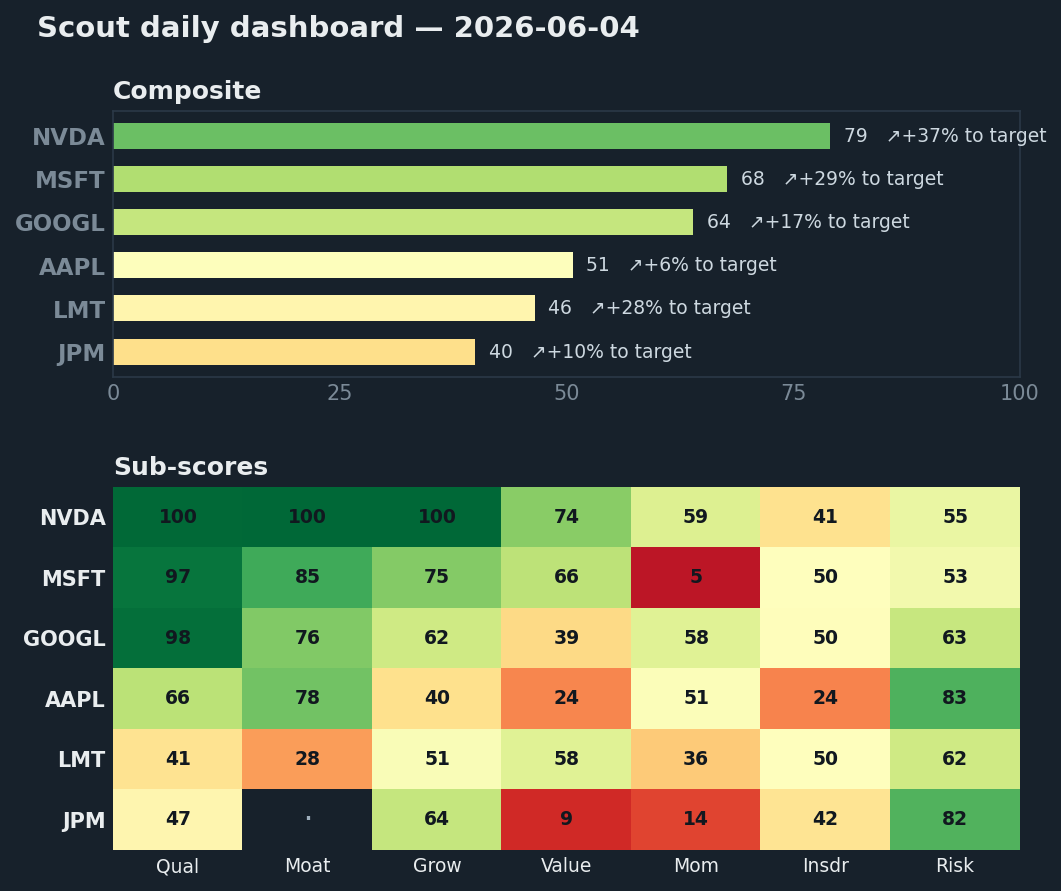
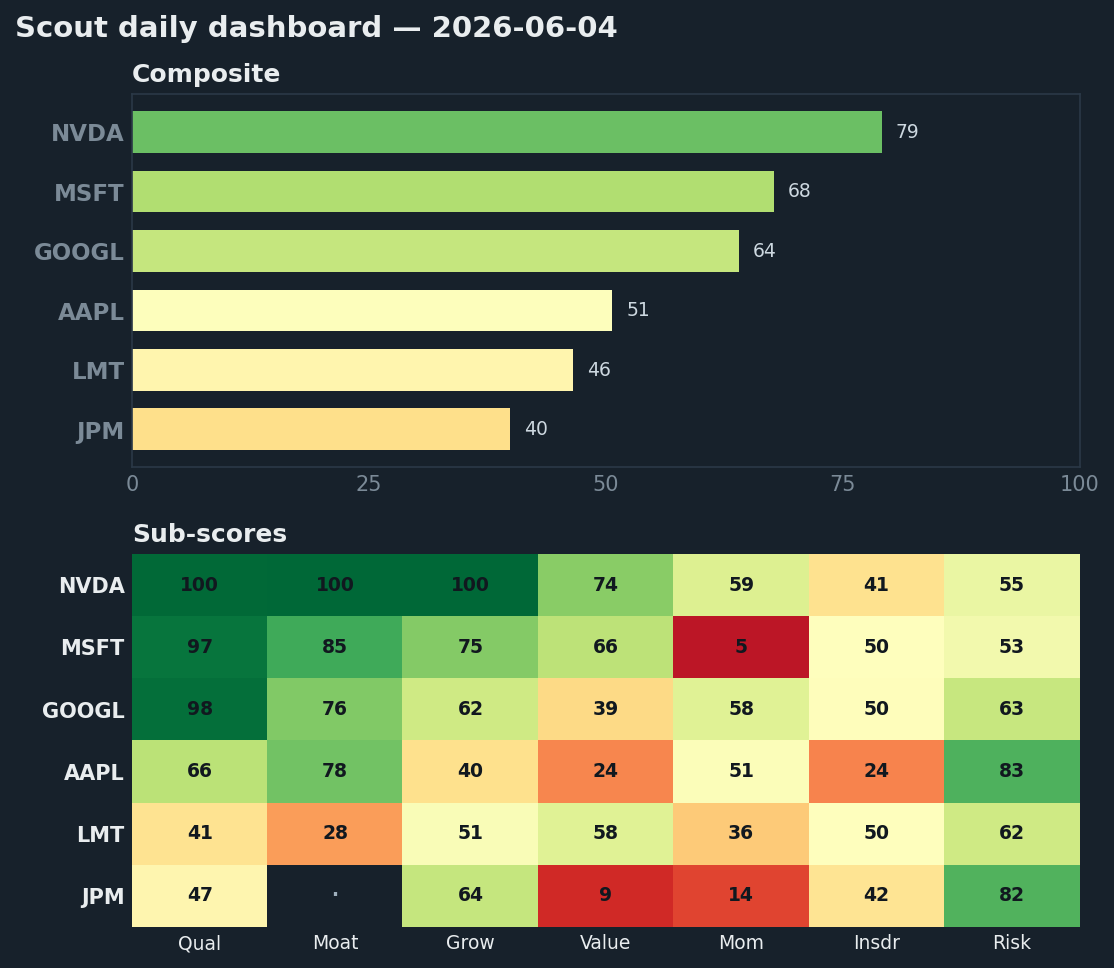
wip(scout-notify): dashboard scales to any N, drop 'to target' annotation
- dashboard() takes (rows, session, out); height = CHROME + 2*ROW_H*n so row
  density is constant from N=1 to N=24+
- inch-based gridspec margins + hspace=1.4/n (not tight_layout) so the title and
  panel headings never collide at low N; removes tight_layout warnings
- N=0 renders an honest 'no candidates' card instead of crashing
- composite bars now show the score only (analyst 'to target' upside removed)
- _scaling_demo() emits scale_n{00,01,03,12,24}.png as proof

diff --git a/scratch/mockups/render.py b/scratch/mockups/render.py
@@ -97,48 +97,82 @@ def radar():
     plt.close(fig)
 
 # ---------- Mockup C: composite dashboard ----------
-def dashboard():
-    n = len(cards)
-    fig = plt.figure(figsize=(7.8, 6.4), dpi=150)
+def dashboard(rows=None, session=SESSION, out="mockup_c_dashboard.png"):
+    """Render the daily dashboard for ANY number of rows.
+
+    Height scales with N so rows never cram; everything else (7 sub-score columns,
+    fonts, margins) is fixed. Callers pass a list of ScoreCard dicts sorted however
+    they like. Empty input renders a 'no candidates' card rather than crashing.
+    """
+    rows = cards if rows is None else rows
+    n = len(rows)
+    if n == 0:  # honest empty-report card instead of a zero-height crash
+        fig = plt.figure(figsize=(7.8, 2.0), dpi=150); fig.patch.set_facecolor(BG)
+        fig.text(0.5, 0.5, f"No candidates passed screening — {session}",
+                 color=FG, fontsize=13, ha="center", va="center")
+        fig.savefig(HERE / out, facecolor=BG, bbox_inches="tight"); plt.close(fig)
+        return out
+
+    # Per-row height (in inches) is constant, so 3 names and 30 names both read the
+    # same density. Chrome (titles, axis, padding) is fixed inch overhead — margins
+    # are set in inch fractions (not tight_layout) so the title never collides at low N.
+    ROW_H, CHROME = 0.40, 2.0
+    height = CHROME + 2 * ROW_H * n          # two stacked panels, n rows each
+    fig = plt.figure(figsize=(7.8, height), dpi=150)
     fig.patch.set_facecolor(BG)
-    gs = fig.add_gridspec(2, 1, height_ratios=[1.1, 1.5], hspace=0.35)
-    # top: composite bars colored by value + upside annotation
+    # hspace is a fraction of per-panel height, so divide by n to keep the gap a
+    # constant ~0.55in regardless of N (room for the top panel's x-axis ticks).
+    gs = fig.add_gridspec(2, 1, height_ratios=[1, 1], hspace=1.4 / n,
+                          top=1 - 0.85 / height, bottom=0.40 / height,
+                          left=0.16, right=0.97)
+    # top: composite bars colored by their own score
     ax1 = fig.add_subplot(gs[0]); ax1.set_facecolor(BG)
     ys = range(n)
-    comps = [c["composite"] for c in cards]
-    ax1.barh(list(ys), comps, color=[cell_color(v) for v in comps], height=0.6)
+    comps = [c["composite"] for c in rows]
+    ax1.barh(list(ys), comps, color=[cell_color(v) for v in comps], height=0.7)
     ax1.set_yticks(list(ys))
-    ax1.set_yticklabels([c["ticker"] for c in cards], color=FG, fontsize=11, fontweight="bold")
+    ax1.set_yticklabels([c["ticker"] for c in rows], color=FG, fontsize=11, fontweight="bold")
     ax1.invert_yaxis()
     ax1.set_xlim(0, 100)
-    for i, c in enumerate(cards):
-        up = c.get("upside_to_target")
-        lab = f"{c['composite']:.0f}" + (f"   ↗{up*100:+.0f}% to target" if up is not None else "")
-        ax1.text(c["composite"] + 1.5, i, lab, va="center", color="#cdd8e0", fontsize=9)
+    for i, c in enumerate(rows):
+        ax1.text(c["composite"] + 1.5, i, f"{c['composite']:.0f}",
+                 va="center", color="#cdd8e0", fontsize=9)
     ax1.set_title("Composite", color=FG, fontsize=12, fontweight="bold", loc="left")
     for sp in ax1.spines.values(): sp.set_color(GRID)
     ax1.tick_params(colors="#7b8a97", length=0)
     ax1.set_xticks([0, 25, 50, 75, 100])
     # bottom: heatmap of sub-scores
     ax2 = fig.add_subplot(gs[1]); ax2.set_facecolor(BG)
-    M = mat(cards)
+    M = mat(rows)
     ax2.imshow(M, cmap="RdYlGn", vmin=0, vmax=100, aspect="auto")
     for i in range(n):
         for j in range(len(SUBS)):
             v = M[i, j]
             ax2.text(j, i, "·" if np.isnan(v) else f"{v:.0f}", ha="center", va="center",
                      color="#9fb0bd" if np.isnan(v) else "#11181f", fontsize=9, fontweight="bold")
-    ax2.set_yticks(range(n)); ax2.set_yticklabels([c["ticker"] for c in cards],
+    ax2.set_yticks(range(n)); ax2.set_yticklabels([c["ticker"] for c in rows],
                                                   color=FG, fontsize=10, fontweight="bold")
     ax2.set_xticks(range(len(SUBS))); ax2.set_xticklabels(SUB_LBL, color=FG, fontsize=9)
     ax2.tick_params(length=0)
     for sp in ax2.spines.values(): sp.set_visible(False)
     ax2.set_title("Sub-scores", color=FG, fontsize=12, fontweight="bold", loc="left")
-    fig.suptitle(f"Scout daily dashboard — {SESSION}", color=FG, fontsize=14,
-                 fontweight="bold", x=0.06, ha="left")
-    fig.tight_layout(rect=[0, 0, 1, 0.95])
-    fig.savefig(HERE / "mockup_c_dashboard.png", facecolor=BG, bbox_inches="tight")
+    fig.suptitle(f"Scout daily dashboard — {session}", color=FG, fontsize=14,
+                 fontweight="bold", x=0.06, ha="left", y=1 - 0.32 / height)
+    fig.savefig(HERE / out, facecolor=BG, bbox_inches="tight")
     plt.close(fig)
+    return out
 
-heatmap(); radar(); dashboard()
-print("rendered:", *[p.name for p in sorted(HERE.glob("mockup_*.png"))])
+
+def _scaling_demo():
+    """Prove the dashboard renders at any N by slicing/replicating the real cards."""
+    pool = cards
+    big = [dict(c, ticker=f"{c['ticker']}{i}") for i in range(4) for c in pool]  # 24 rows
+    dashboard(pool[:1], out="scale_n01.png")
+    dashboard(pool[:3], out="scale_n03.png")
+    dashboard(big[:12], out="scale_n12.png")
+    dashboard(big[:24], out="scale_n24.png")
+    dashboard([], out="scale_n00.png")
+
+
+heatmap(); radar(); dashboard(); _scaling_demo()
+print("rendered:", *[p.name for p in sorted(HERE.glob("*.png"))])
